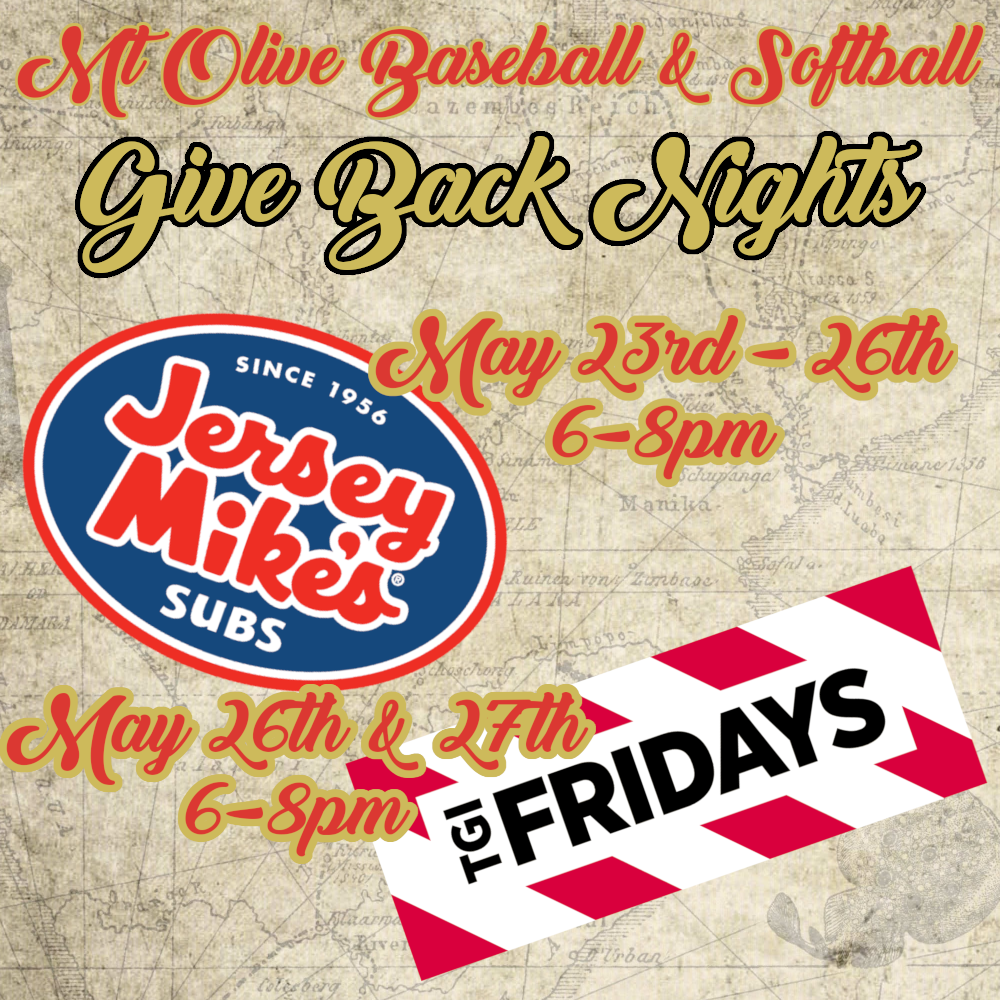
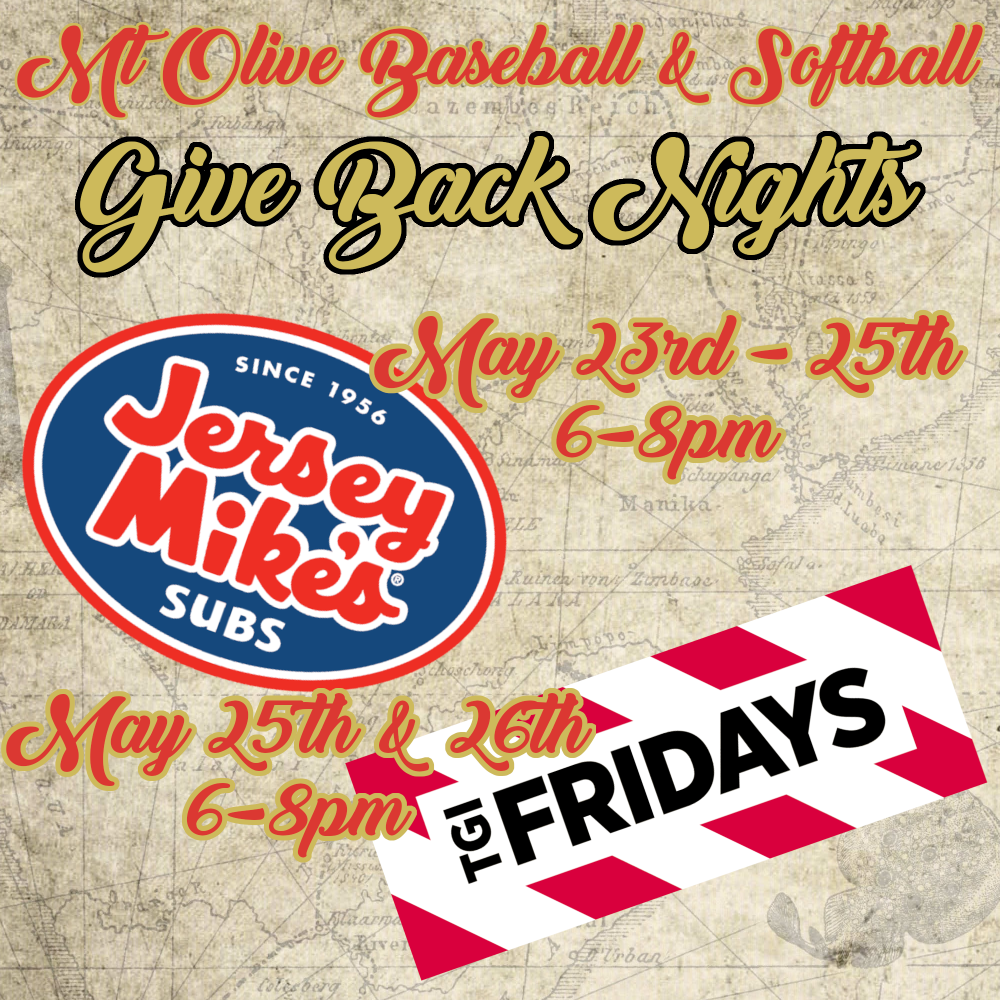
update for corrected Give Back Night dates

diff --git a/newsletters/20220520/index.html b/newsletters/20220520/index.html
@@ -108,7 +108,7 @@
 								</a>
 								<div class="content">
 									<h3>Give Back Nights</h3>
-									<p>This week's Give Back Nights are brought to you by Jersey Mike's Mon 5/23 thur Thurs 5/26 and then TGI Fridays of Roxbury Thurs 5/26 & Fri 5/27. Wear your MOBSA gear and show your Marauder pride! Come Hungry Marauders!</p>
+									<p>This week's Give Back Nights are brought to you by Jersey Mike's Mon 5/23 thur Thurs 5/25 and then TGI Fridays of Roxbury Wed 5/25 & Thurs 5/26. Wear your MOBSA gear and show your Marauder pride! Come Hungry Marauders!</p>
 									<div class="mobile-only">
 										<div class="live-border-container"><a target="_blank" href="https://www.facebook.com/mtolivebsa/posts/1032353877630660"><div class="live-border"></div></a></div>
 									</div>
